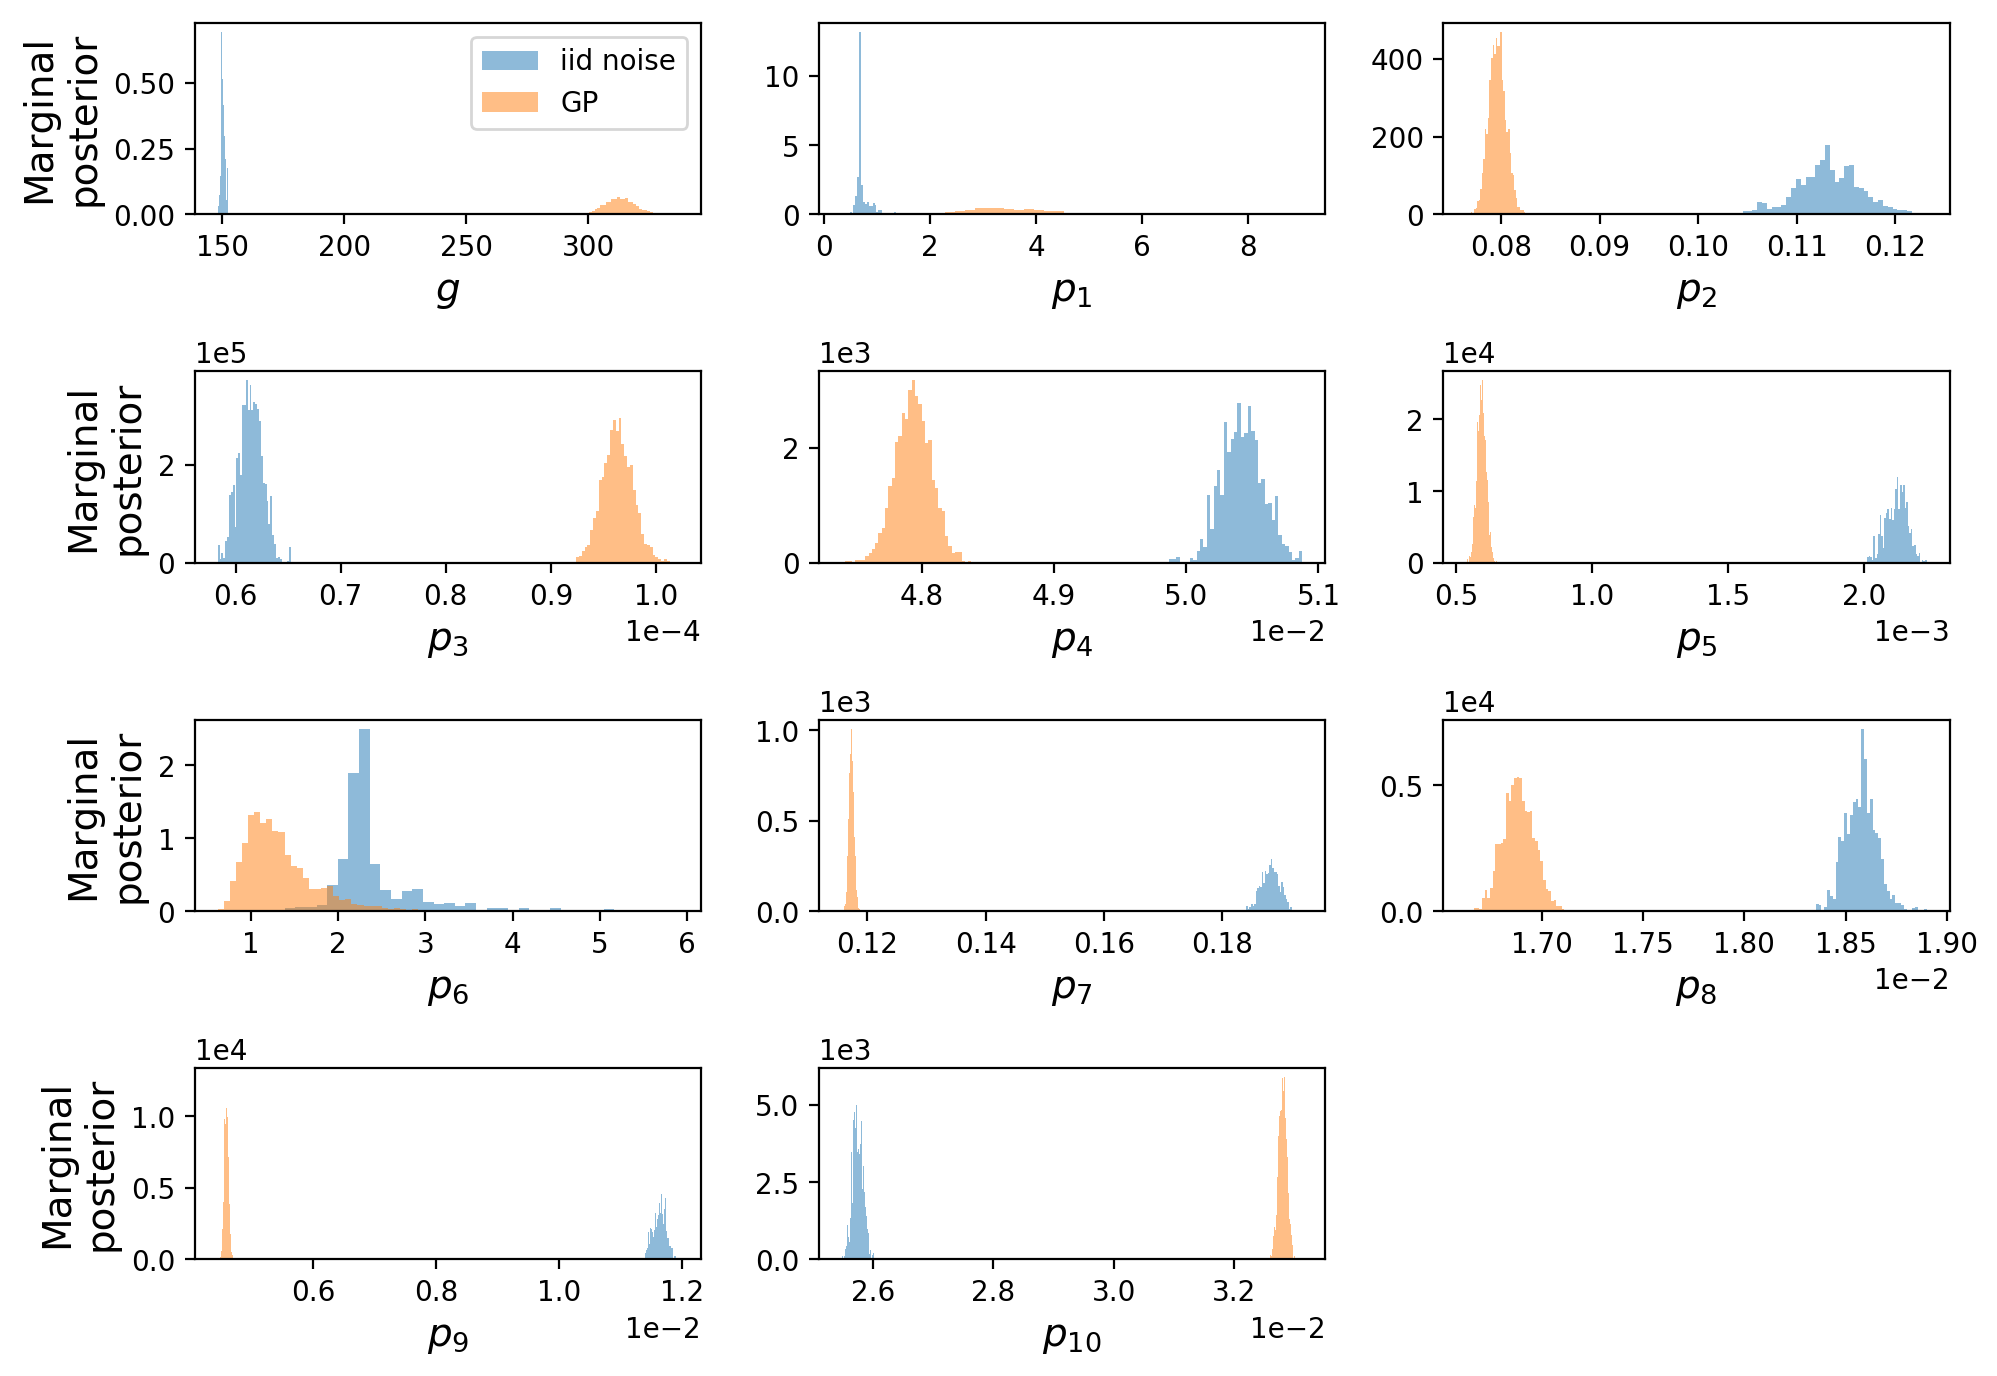
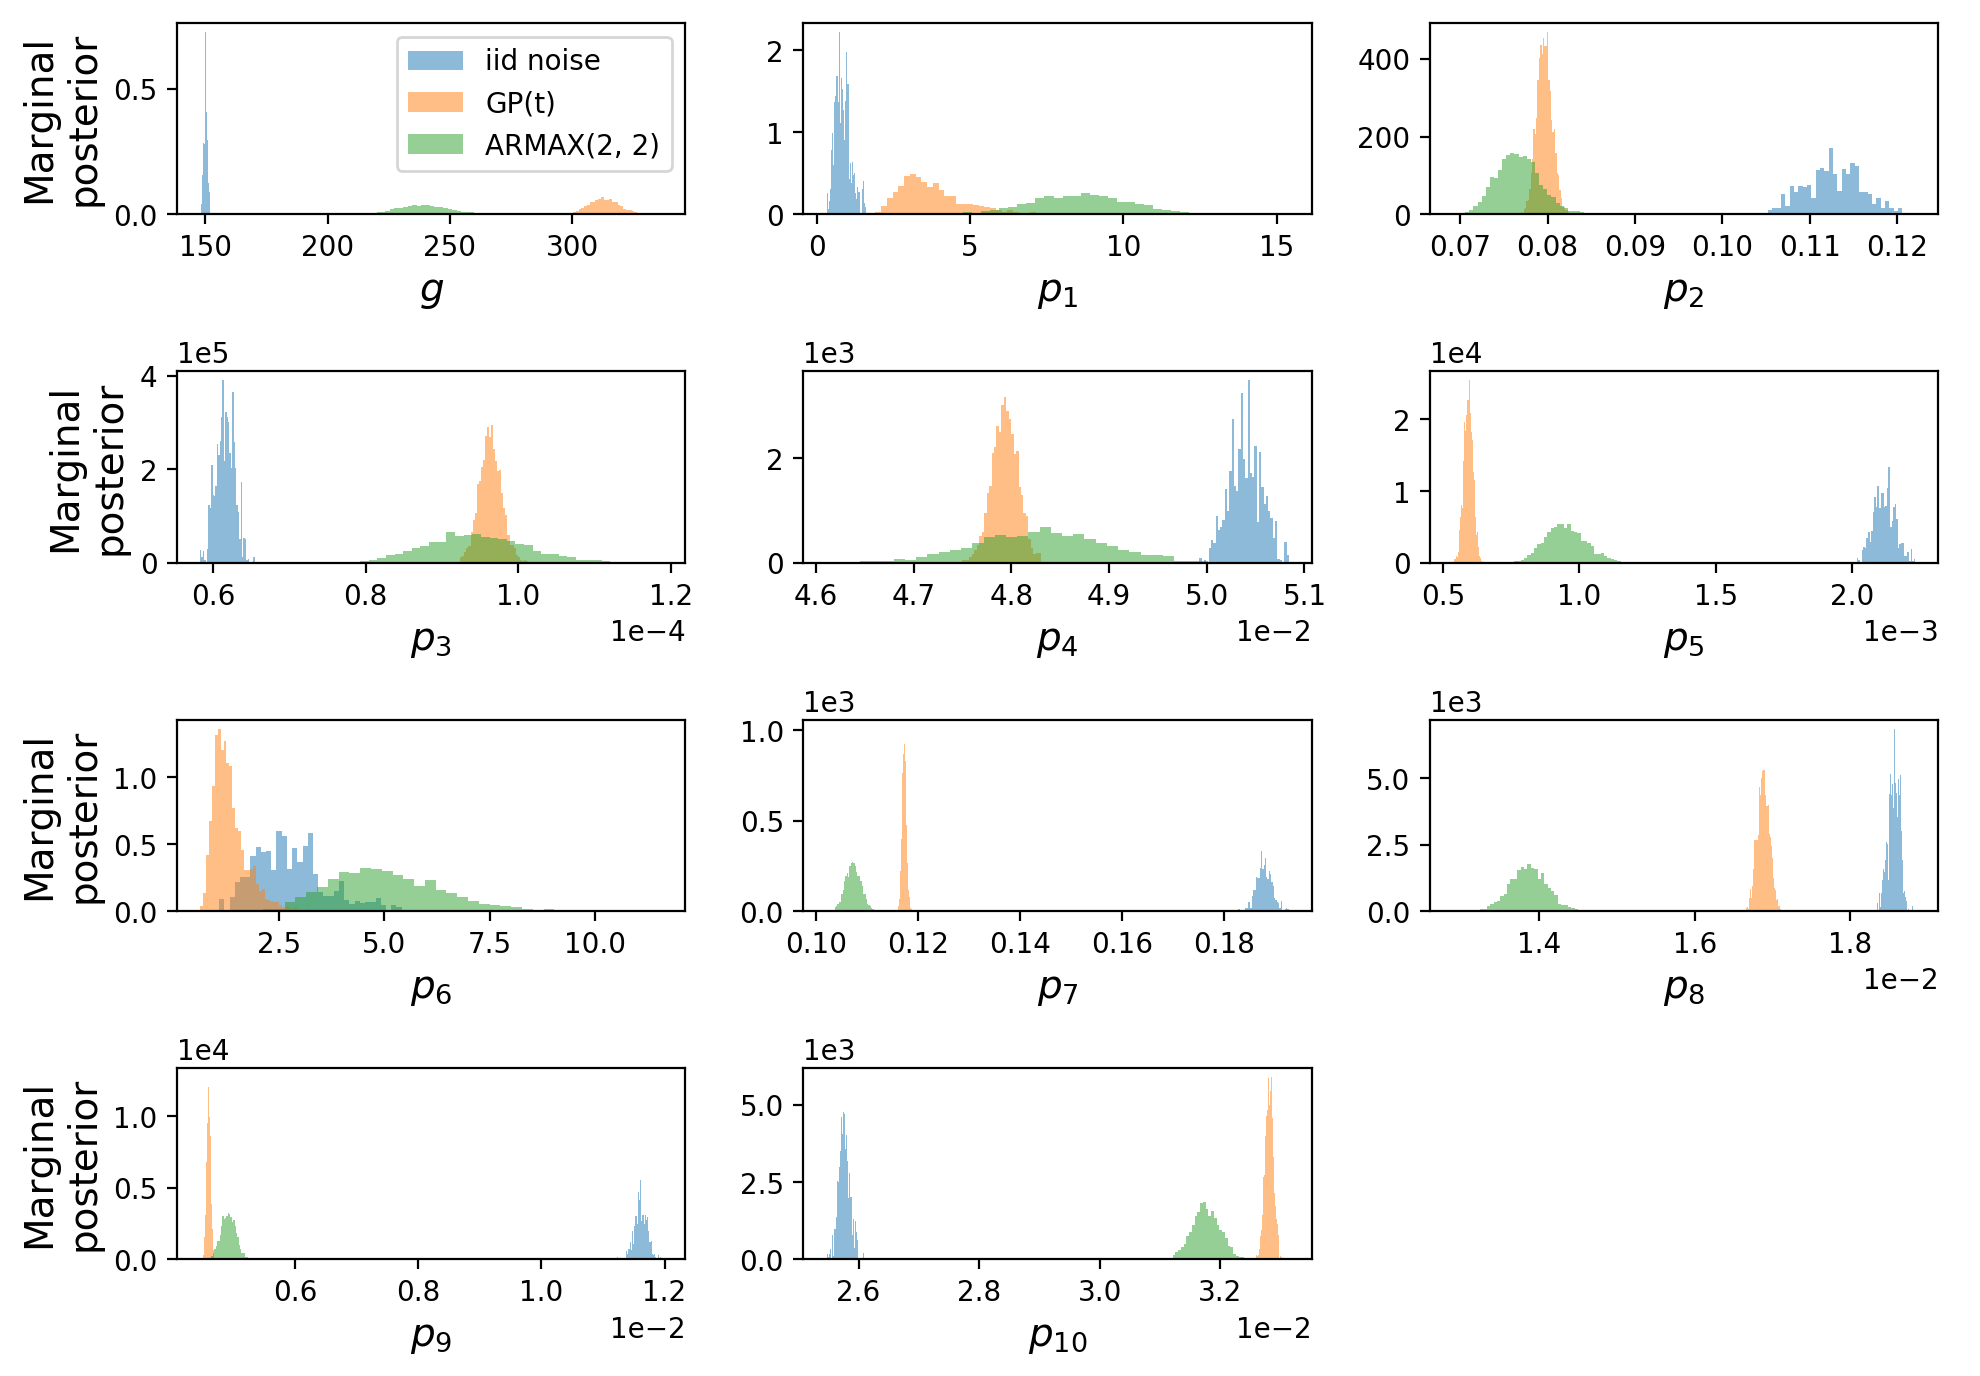
Update posterior plots

diff --git a/ion-channel-models/compare-posteriors.py b/ion-channel-models/compare-posteriors.py
@@ -15,8 +15,8 @@ Posterior distributions with different discrepancy models.
 """
 
 model_list = ['A', 'B', 'C']
-discrepancy_list = ['', '-gp', '-arma_2_2', '-arma_2_2-inv']
-discrepancy_names = ['iid noise', 'GP', 'ARMAX(2, 2)', 'invertible ARMAX(2, 2)']
+discrepancy_list = ['', '-gp', '-arma_2_2']#, '-arma_2_2-inv']
+discrepancy_names = ['iid noise', 'GP(t)', 'ARMAX(2, 2)']#, 'invertible ARMAX(2, 2)']
 chain_to_use = [2, 2, 2, 1]
 
 try:
